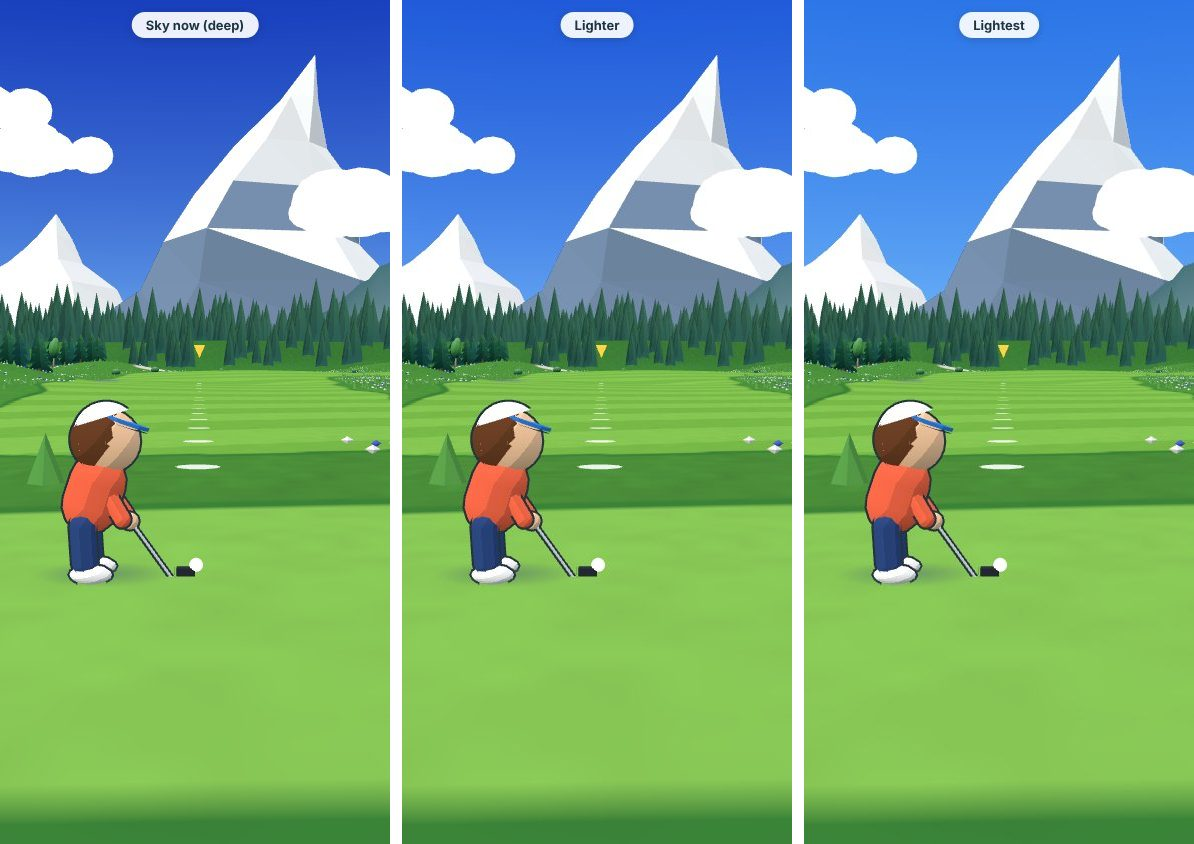
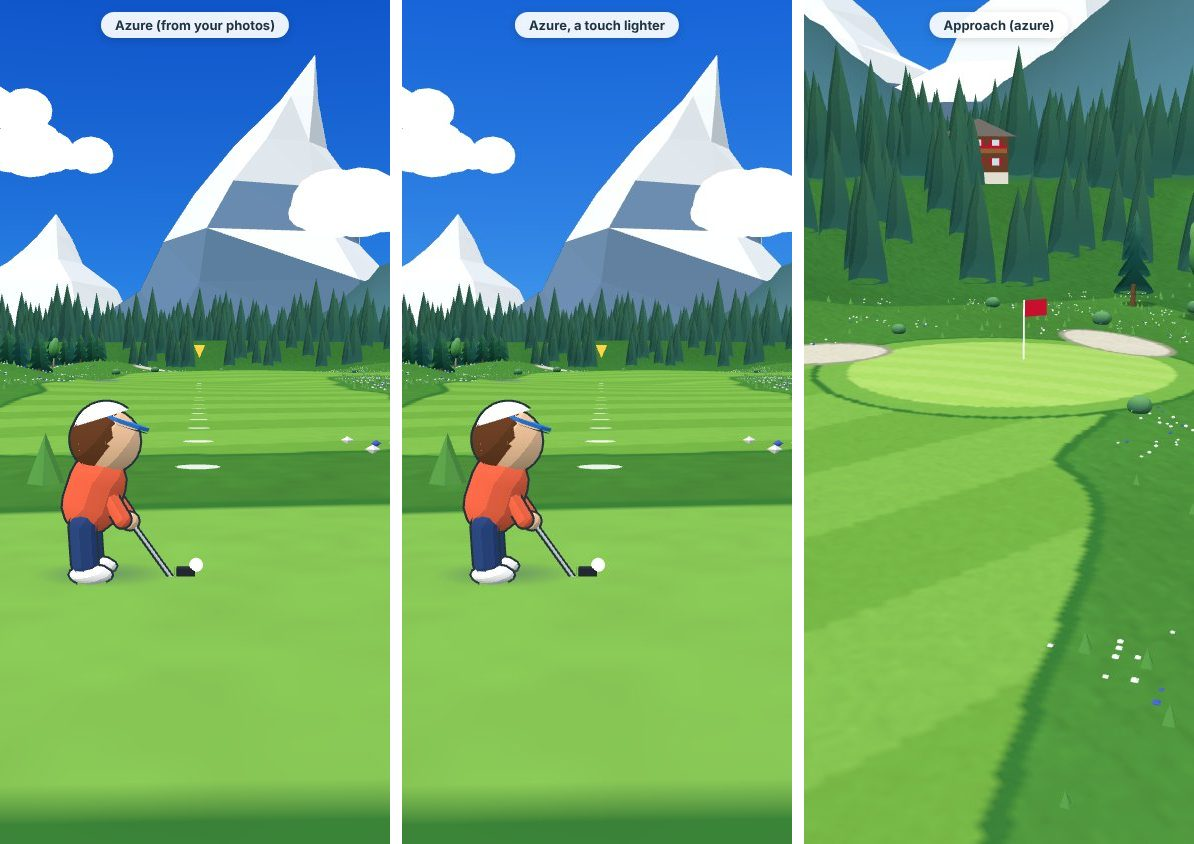
Art: Alpine azure sky options from the owner's photos
— Agent: artist

Claude-Session: https://claude.ai/code/session_01Rv6Ng9ELhLTGiLwq6qRntd

diff --git a/docs/art/alpine/mockup.html b/docs/art/alpine/mockup.html
@@ -25,7 +25,7 @@ import { colourAt, hex, mixHex, vnoise } from '../style-r2/paint.js';
 
 const q = new URLSearchParams(location.search);
 const SET = q.get('set') || 'alpine-warm';
-const P = { ...PALETTES[SET] }; if (q.get('accent')) P.accent = q.get('accent'); if (q.get('skyTop')) P.skyTop = q.get('skyTop');
+const P = { ...PALETTES[SET] }; if (q.get('accent')) P.accent = q.get('accent'); if (q.get('skyTop')) P.skyTop = q.get('skyTop'); if (q.get('skyHor')) P.skyHorizon = P.fog = q.get('skyHor');
 // the biome sets' pick lists (mock-up copy; the real format is AP5)
 const PICKS = { trees: ['pine', 'cypress', 'pineTeal', 'pine', 'birch'], wall: 'pine', backdrop: 'peaksSnow', big: ['chalets'] };
 const OUTLINE = q.get('outline') || 'none', PX = Math.max(1, +(q.get('px') || 1)), VIEW = q.get('view') || 'golfer';
